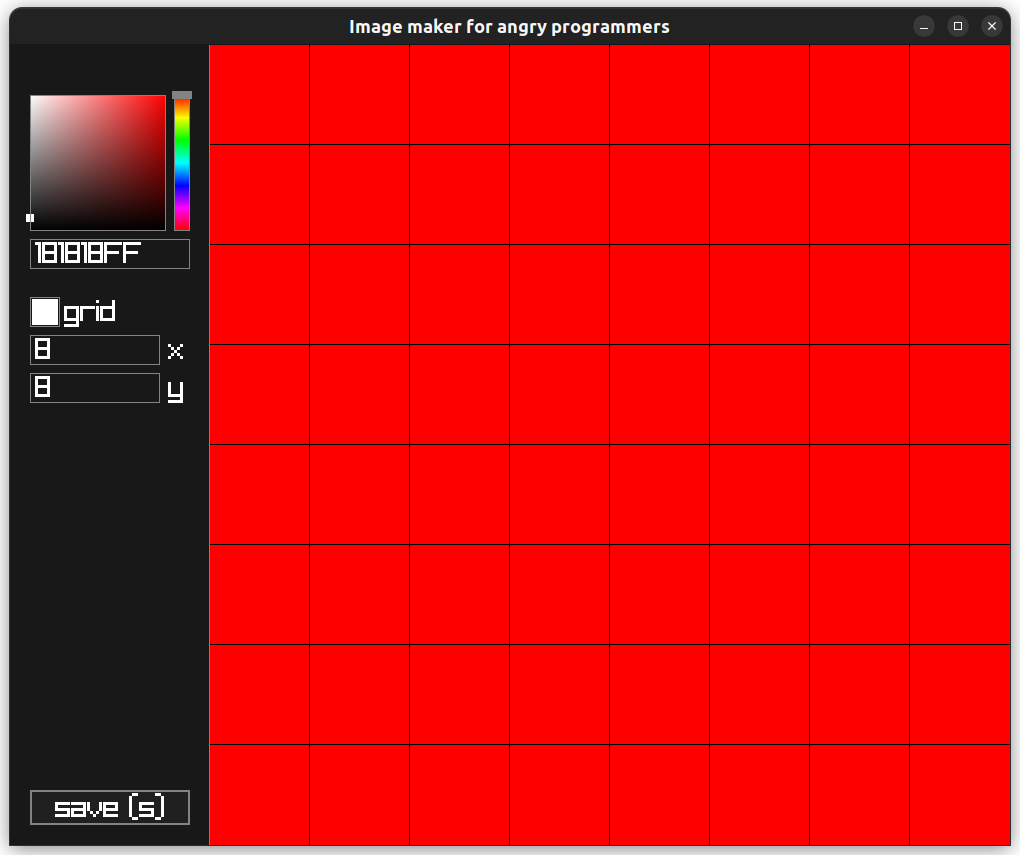
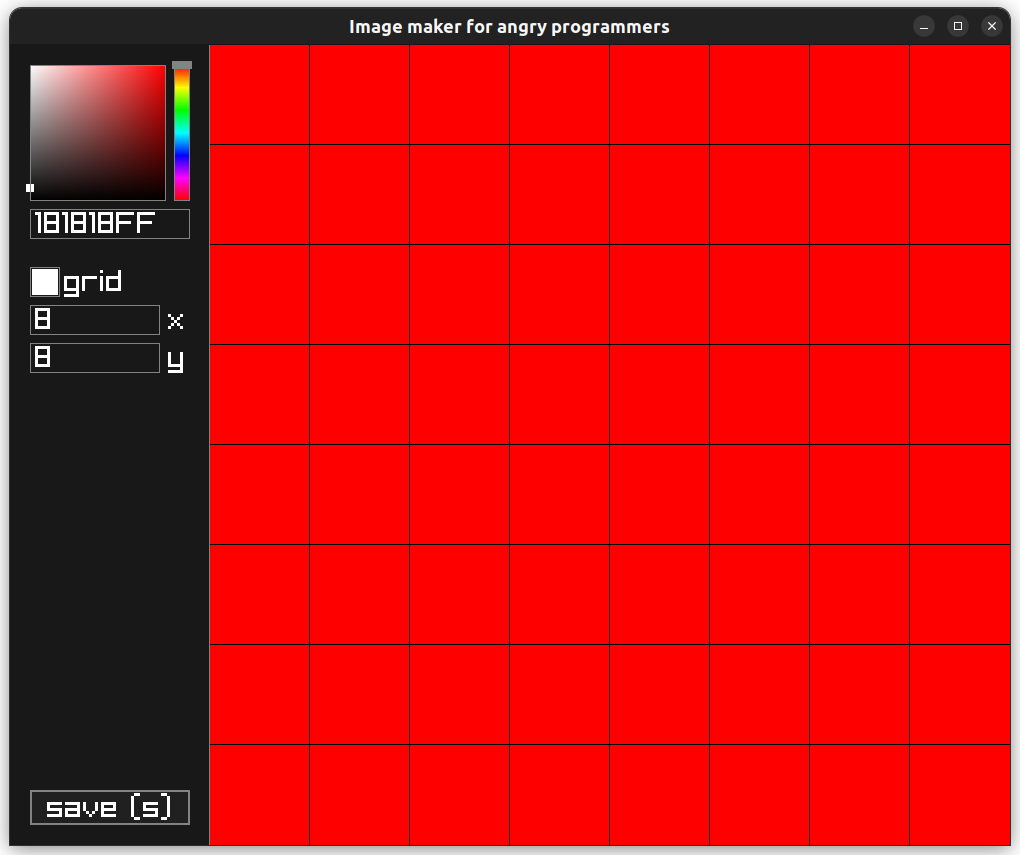
minor styling and readability adjustments

Changed region(s): [[0.0304, 0.0608, 0.2127, 0.4865], [0.0608, 0.9123, 0.1824, 0.9731]]

diff --git a/main.c b/main.c
@@ -128,6 +128,7 @@ int main(){
     char *file_path = "out.png";
 
     GuiSetStyle(DEFAULT, TEXT_SIZE, menu_font_size);
+    GuiSetStyle(DEFAULT, TEXT_SPACING, 3);
 
     GuiSetStyle(DEFAULT, TEXT_COLOR_NORMAL, 0xFFFFFFFF);
     GuiSetStyle(DEFAULT, TEXT_COLOR_FOCUSED, 0xDDDDDDFF);
@@ -214,7 +215,7 @@ int main(){
         DrawLine(menu_width, 0, menu_width, GetScreenHeight(), GRAY);
 
         // color picker
-        int color_picker_y = 50;
+        int color_picker_y = menu_padding;
         int color_picker_size = menu_content_width - huebar_width - huebar_padding;
         GuiColorPicker((Rectangle){menu_padding, color_picker_y, color_picker_size, color_picker_size}, "heyyyy", &active_color);
         if (!isEditingHexField){
